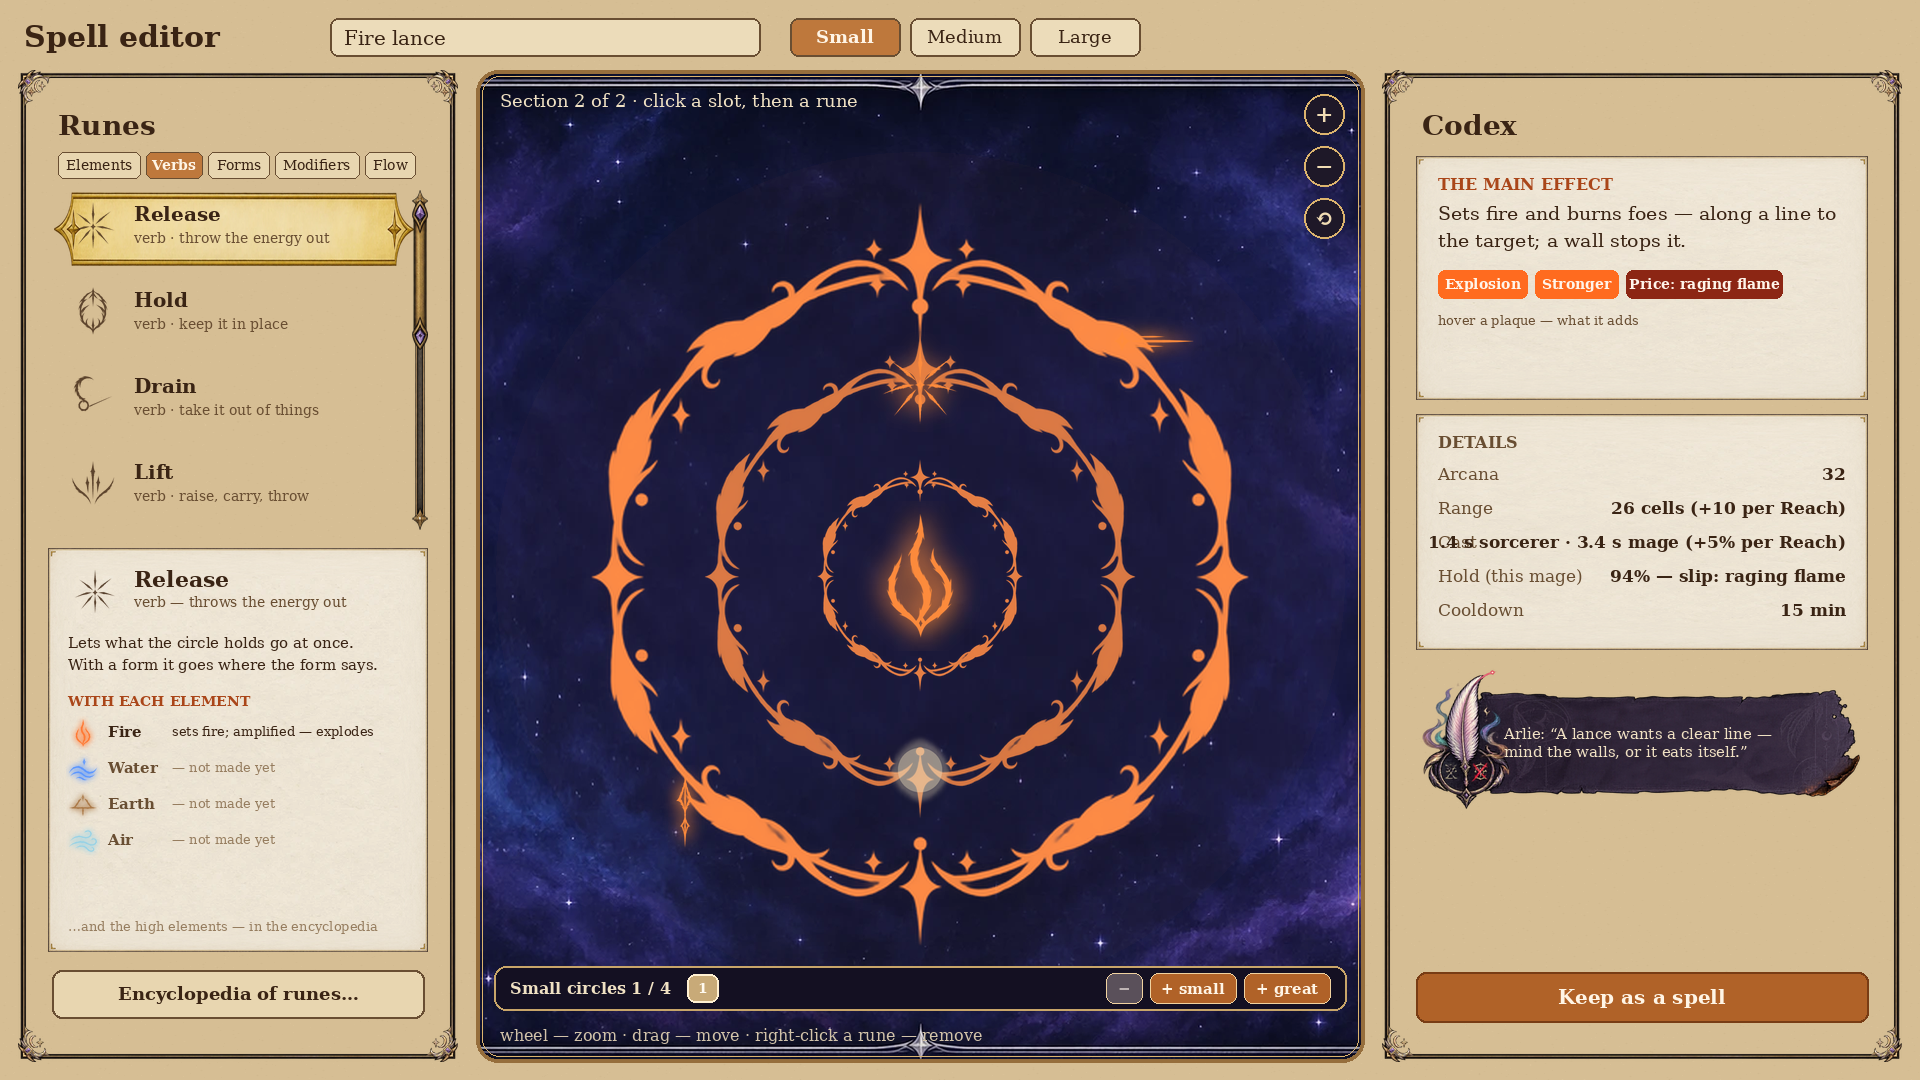
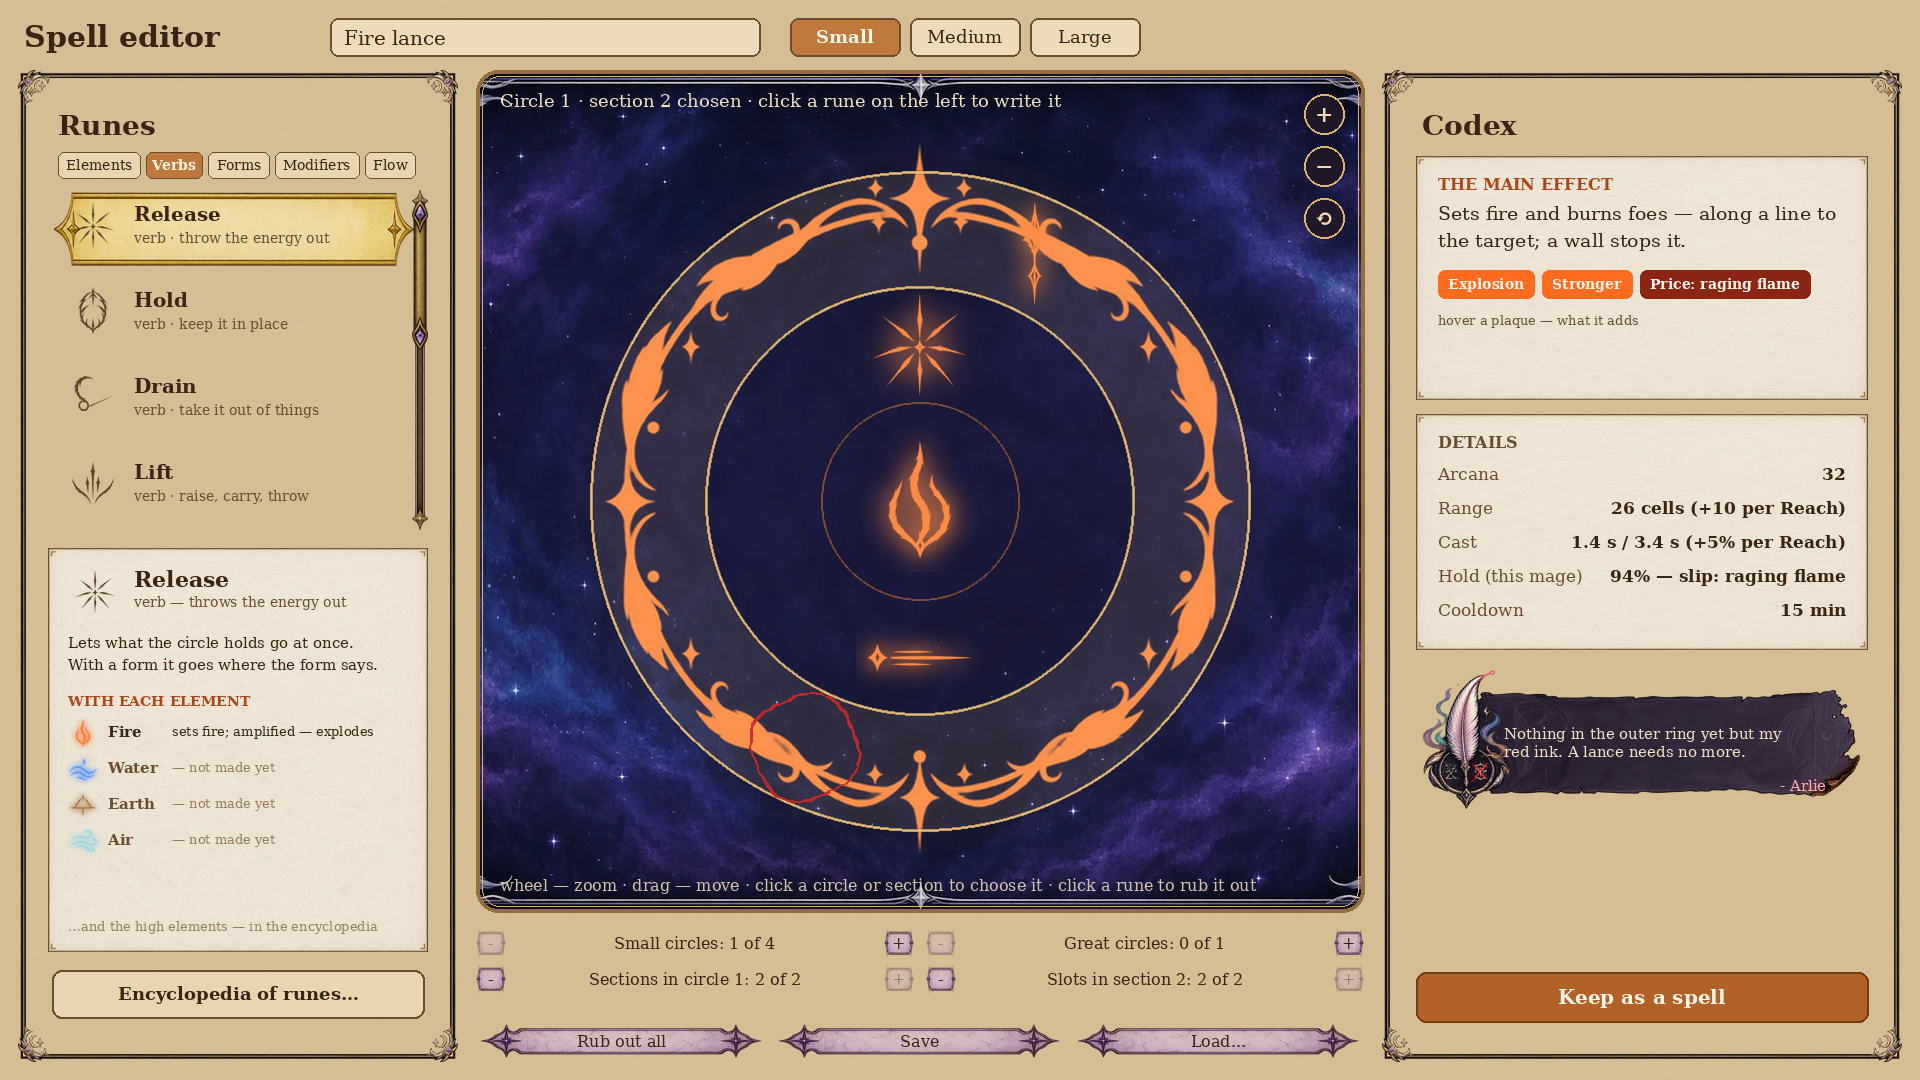
Magic: editor preview v7 (ritualistics bottom steppers, sections like rituals, circles combine by set, Arlie signature)
Claude-Session: https://claude.ai/code/session_01YCWNLtj9zFsogxZeNiDKcG

diff --git a/Framework/Magic/Магия-план.md b/Framework/Magic/Магия-план.md
@@ -1339,3 +1339,8 @@
 - **Полоса кругов в центре (автор):** круги добавляются как секции в ритуалистике — «+ circle» / «−», плашки кругов (1 · Fire, 2 · Water…), клик выбирает круг, и руны пишутся в его кольца. Предел (предложение): малый круг — 1, средний — 3, большой — 5.
 - **Пересчёт Арканы (раздел 78) — принят** (автор; возможно, изменится позже).
 - **Круги — уточнение автора:** добавляется **пустой** круг; стихия задаётся руной, поставленной **в центр** круга (плашки внизу — просто номера). **Малые круги** — малые стихии (Огонь, Вода, Земля, Воздух), **до 4**. **Большие круги** — высшие стихии, они **огибают весь узор** малых кругов (1–4). **Жизнь — самый малый из больших кругов, первый.** Кнопки: «+ small», «+ great», «−».
+- **Правки автора к превью (v7):**
+  - **Подпись Арлии — как в ритуалистике** (курсив, «- Arlie» снизу), без «Arlie:» в тексте. Вместо статичного совета — **реакции на действия в круге** (как Arlia.Watch в ритуалистике).
+  - **Нижняя панель — как в ритуалистике:** степперы «Small circles», «Great circles», «Sections in circle N», «Slots in section N» + «Rub out all / Save / Load...»; без плашек-номеров.
+  - **Руны в секциях — как в ритуалистике:** круг выбирается кликом, секции — кольца от центра, руны по местам секции, пустые места — красная тушь Арлии; руна стихии — в центре круга.
+  - **Круги одной стихии можно повторять** (3 Огня + 1 Вода и т.п.). **Сочетание создаётся самим набором кругов**, руны на перекрытиях **не рисуются** — так не нарушается логика «руна в секции».
